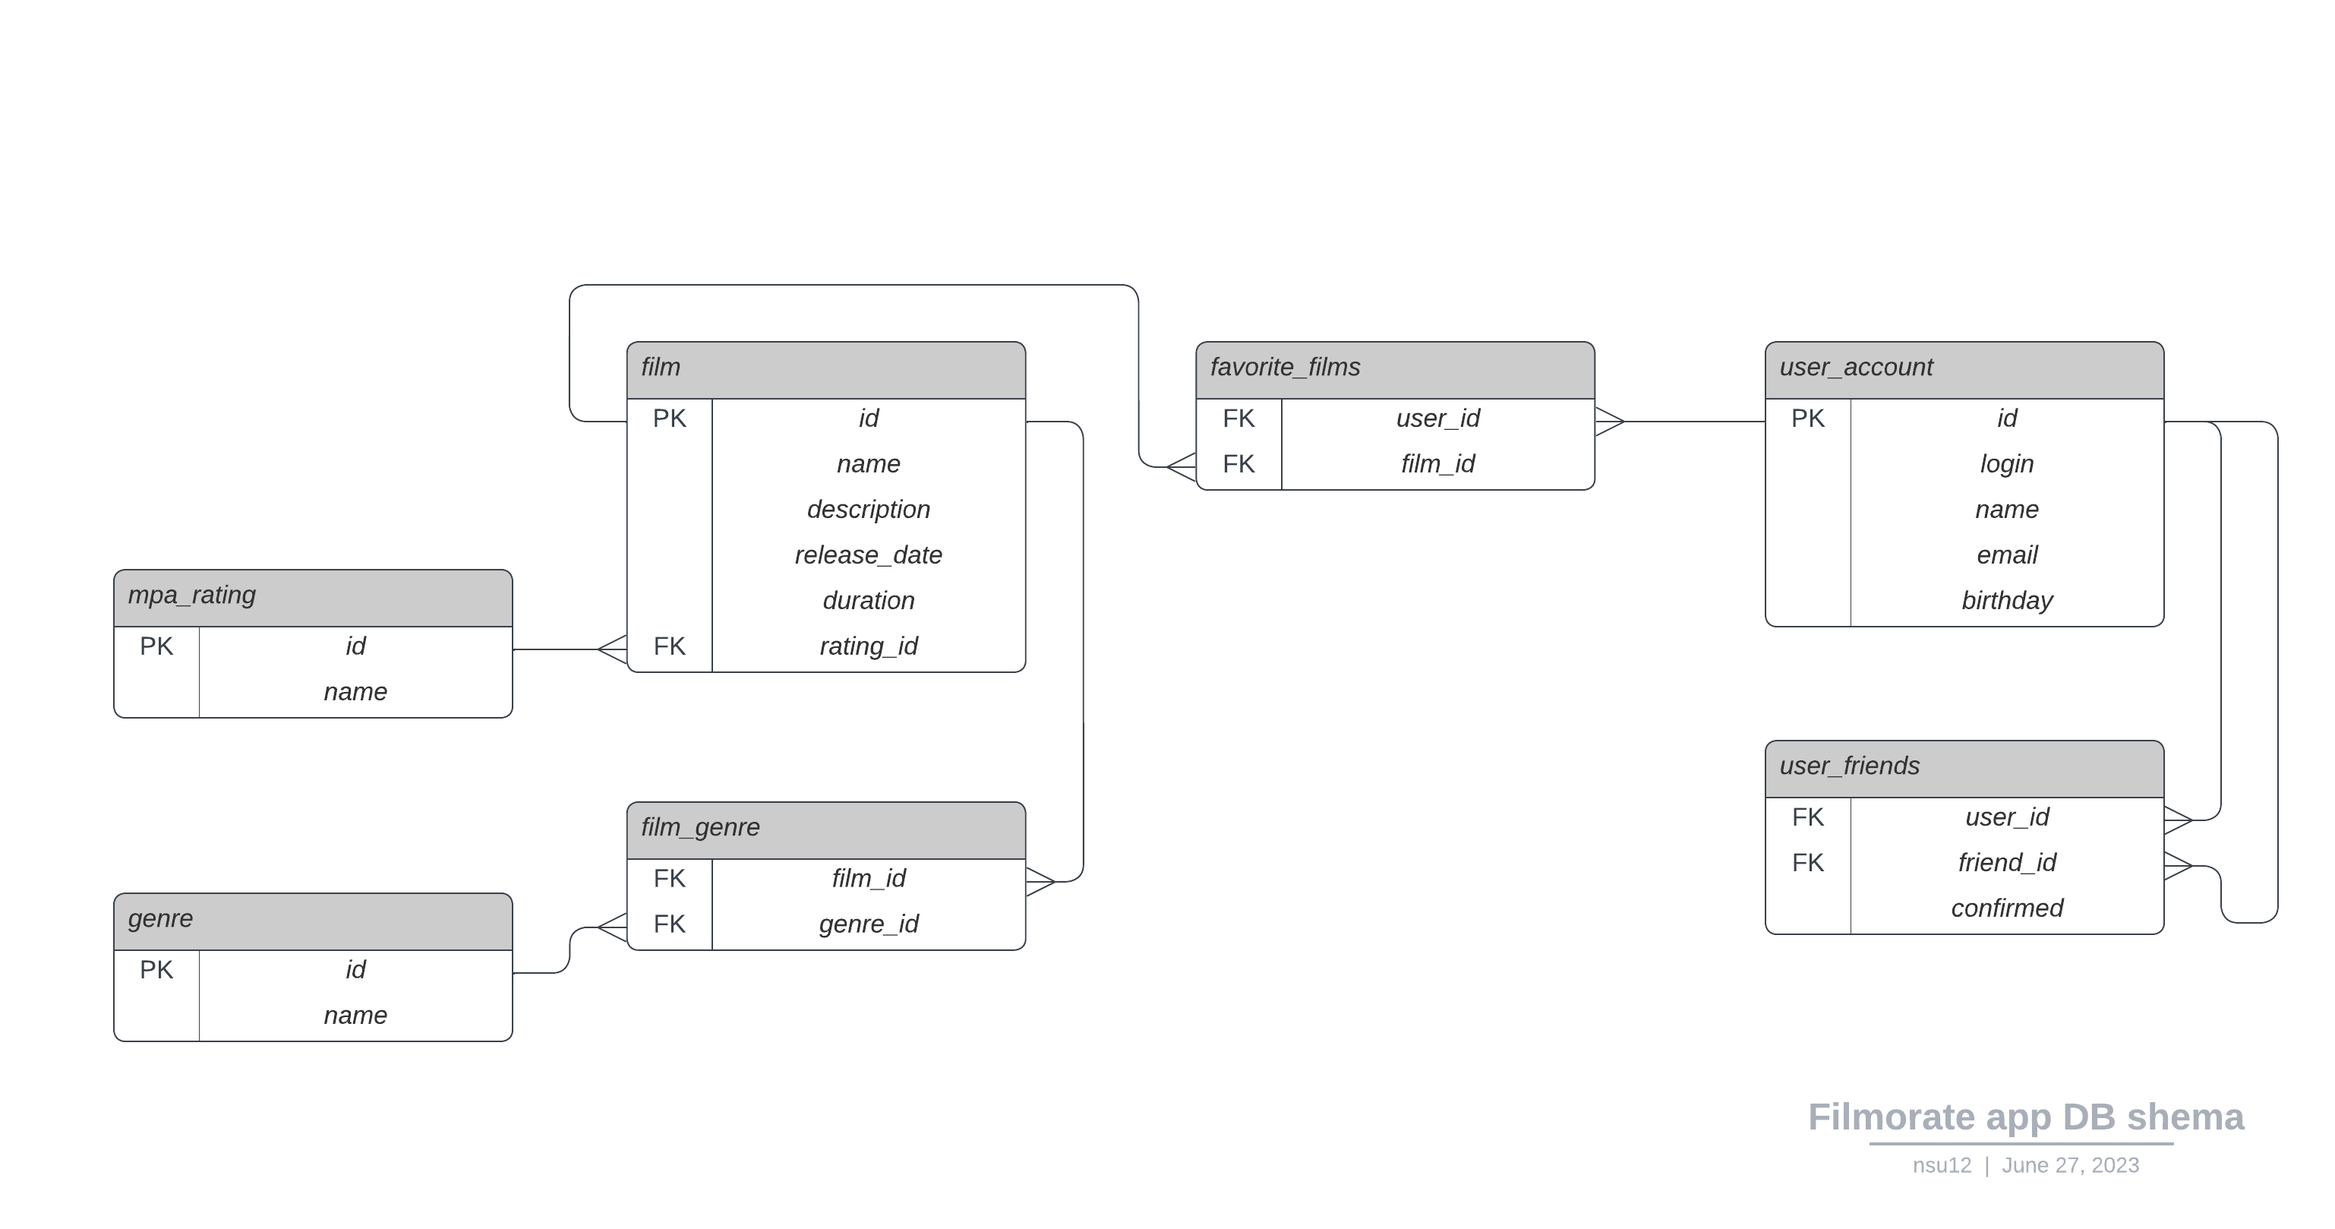
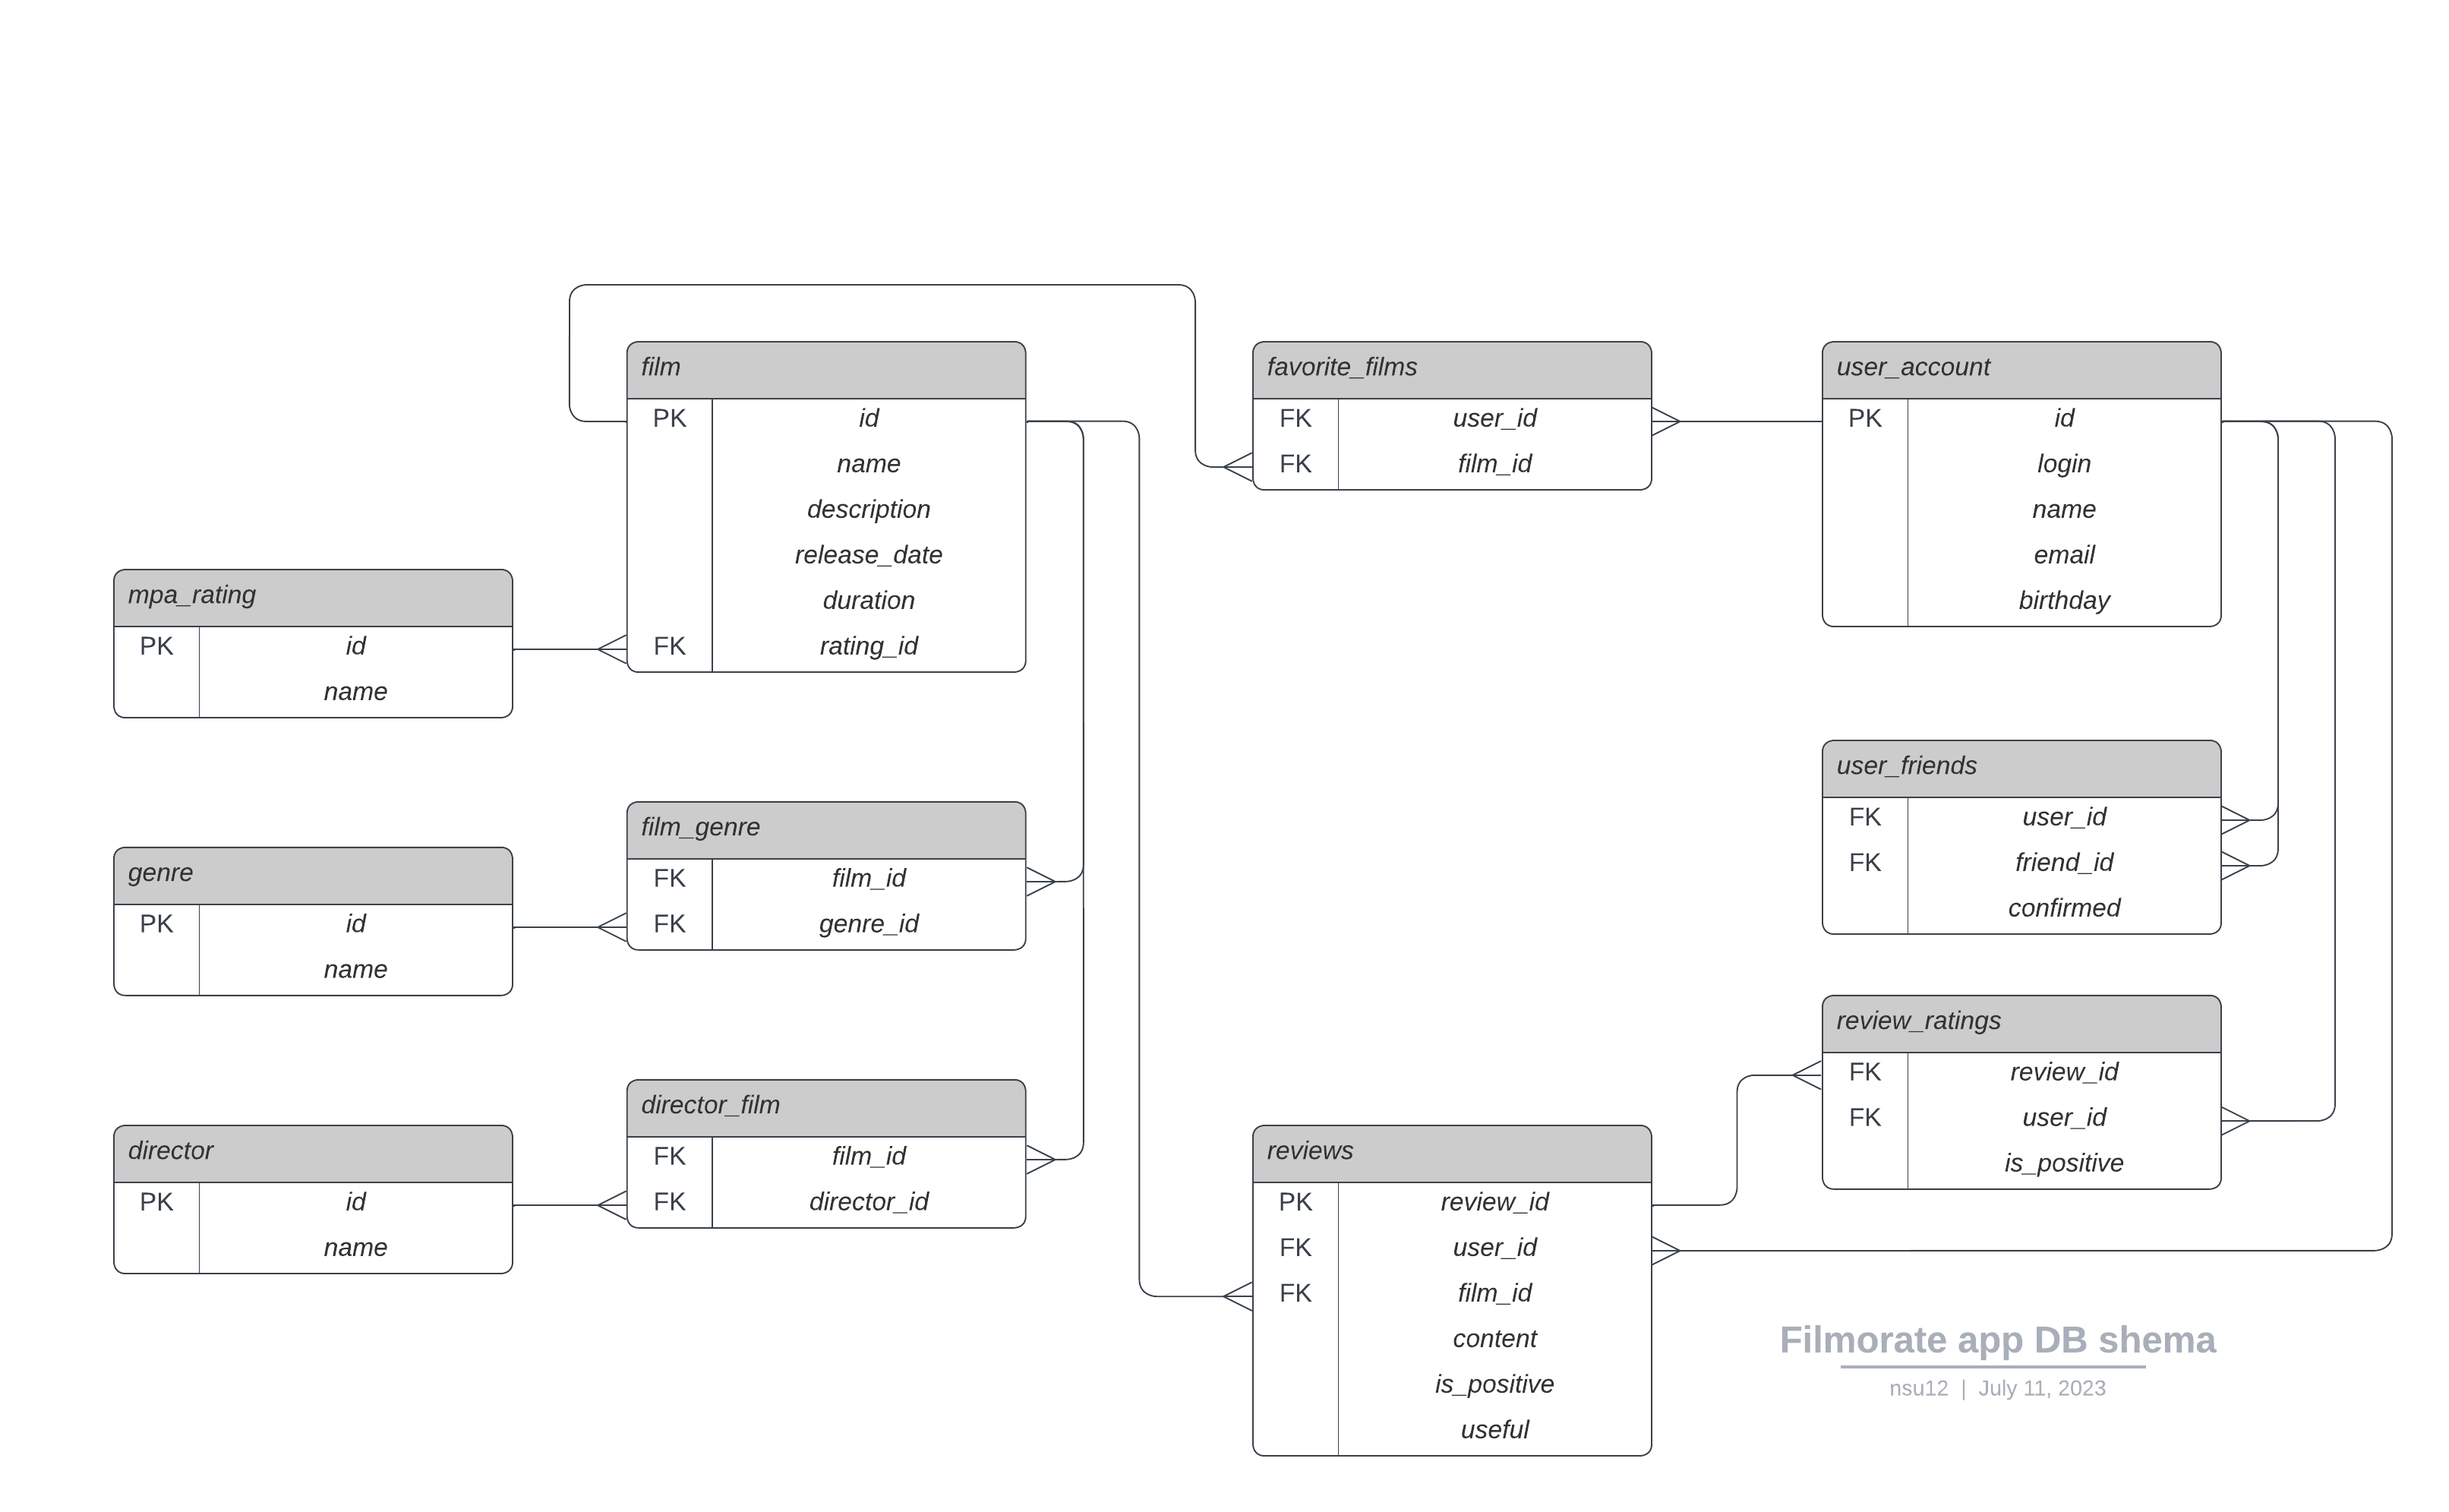
feat: правка графической схемы БД, ряд небольших правок общего стиля кода

diff --git a/src/main/java/ru/yandex/practicum/filmorate/storage/film/FilmStorageImpl.java b/src/main/java/ru/yandex/practicum/filmorate/storage/film/FilmStorageImpl.java
@@ -358,12 +358,12 @@ public class FilmStorageImpl implements FilmStorage {
     }
 
     @Override
-    public List<Film> searchFilms(Optional<String> query, List<String> by) {
+    public Collection<Film> searchFilms(String query, List<String> by) {
         List<Film> searchedFilms = new ArrayList<>();
-        if (query.get().isEmpty() || query.get().equals(" ")) {
+        if (query.isEmpty() || query.equals(" ")) {
             return searchedFilms;
         }
-        String stringInSql = "%" + query.get().toLowerCase() + "%";
+        String stringInSql = "%" + query.toLowerCase() + "%";
         if (by != null) {
             log.debug("Получен запрос с параметром by");
             if (by.size() == 1 & by.contains("title")) {
@@ -376,7 +376,7 @@ public class FilmStorageImpl implements FilmStorage {
             }
             if (by.size() == 2 & by.contains("title") & by.contains("director")) {
                 log.debug("Получен запрос на поиск фильма по имени режиссера и по названию фильма");
-                searchedFilms = jdbcTemplate.query(GET_SEARCH_FILMS_BY_ALL, (rs, rowNum) -> makeFilm(rs,rowNum), stringInSql, stringInSql);
+                searchedFilms = jdbcTemplate.query(GET_SEARCH_FILMS_BY_ALL, FilmStorageImpl::makeFilm, stringInSql, stringInSql);
                 log.debug("Результаты поиска:");
                 for (Film film : searchedFilms) {
                     log.debug("Фильм с film_id={}: {}", film.getId(), film);
@@ -391,7 +391,7 @@ public class FilmStorageImpl implements FilmStorage {
     }
 
     private List<Film> getSearchedFilms(String sql, String stringInSql) {
-        List<Film> searchedFilms = jdbcTemplate.query(sql, (rs, rowNum) -> makeFilm(rs,rowNum), stringInSql);
+        List<Film> searchedFilms = jdbcTemplate.query(sql, FilmStorageImpl::makeFilm, stringInSql);
         log.debug("Результаты поиска:");
         for (Film film : searchedFilms) {
             log.debug("Фильм с film_id={}: {}", film.getId(), film);

diff --git a/src/main/java/ru/yandex/practicum/filmorate/controller/DirectorController.java b/src/main/java/ru/yandex/practicum/filmorate/controller/DirectorController.java
@@ -10,7 +10,7 @@ import java.util.Collection;
 
 @Slf4j
 @RestController
-@RequestMapping
+@RequestMapping(value="/directors")
 public class DirectorController {
     private final DirectorService service;
 
@@ -18,27 +18,27 @@ public class DirectorController {
         this.service = service;
     }
 
-    @PostMapping(value = "/directors")
+    @PostMapping
     public Director create(@RequestBody @Valid Director director) {
         return service.create(director);
     }
 
-    @PutMapping(value = "/directors")
+    @PutMapping
     public Director update(@RequestBody @Valid Director director) {
         return service.update(director);
     }
 
-    @GetMapping(value = "/directors/{id}")
+    @GetMapping(value = "/{id}")
     public Director get(@PathVariable("id") Long id) {
         return service.get(id);
     }
 
-    @GetMapping(value = "/directors")
+    @GetMapping
     public Collection<Director> get() {
         return service.getAllDirectors();
     }
 
-    @DeleteMapping(value = "/directors/{id}")
+    @DeleteMapping(value = "/{id}")
     public void delete(@PathVariable("id") Long id) {
          service.delete(id);
     }

diff --git a/src/main/java/ru/yandex/practicum/filmorate/controller/FilmController.java b/src/main/java/ru/yandex/practicum/filmorate/controller/FilmController.java
@@ -7,7 +7,6 @@ import ru.yandex.practicum.filmorate.service.FilmService;
 
 import java.util.Collection;
 import java.util.List;
-import java.util.Optional;
 
 @Slf4j
 @RestController
@@ -80,9 +79,10 @@ public class FilmController {
     }
 
     @GetMapping(value = "/search")
-    protected Collection<Film> searchFilms(@RequestParam(name = "query") Optional<String> query,
-                                     @RequestParam(required = false, name = "by") List<String> by) {
-        log.info("Запрос на поиск фильмов...");
+    protected Collection<Film> searchFilms(
+            @RequestParam(name = "query") String query,
+            @RequestParam(name = "by") List<String> by) {
+        log.debug("Запрос на поиск фильмов...");
         return service.searchFilms(query, by);
     }
 }

diff --git a/src/main/java/ru/yandex/practicum/filmorate/service/FilmService.java b/src/main/java/ru/yandex/practicum/filmorate/service/FilmService.java
@@ -20,7 +20,6 @@ import javax.validation.ValidationException;
 import java.time.LocalDate;
 import java.util.Collection;
 import java.util.List;
-import java.util.Optional;
 import java.util.stream.Collectors;
 
 @Slf4j
@@ -162,8 +161,8 @@ public class FilmService {
         return films;
     }
 
-    public Collection<Film> searchFilms(Optional<String> query, List<String> by) {
-        List<Film> films = filmStorage.searchFilms(query,by);
+    public Collection<Film> searchFilms(String query, List<String> by) {
+        Collection<Film> films = filmStorage.searchFilms(query, by);
         films.forEach(film -> film.setGenres(filmGenreStorage.getFilmGenresOrThrow(film.getId())));
         films.forEach(film -> film.setDirectors(directorFilmStorage.getFilmDirectorsOrThrow(film.getId())));
         return films;

diff --git a/src/main/java/ru/yandex/practicum/filmorate/controller/ErrorHandler.java b/src/main/java/ru/yandex/practicum/filmorate/controller/ErrorHandler.java
@@ -25,6 +25,15 @@ public class ErrorHandler {
     }
 
     @ExceptionHandler
+    @ResponseStatus(HttpStatus.BAD_REQUEST)
+    public ErrorResponse handleIllegalArgumentException(final IllegalArgumentException e) {
+        log.error("Некорректные параметры запроса, {}", e.getMessage());
+        return new ErrorResponse(
+                e.getMessage()
+        );
+    }
+
+    @ExceptionHandler
     @ResponseStatus(HttpStatus.NOT_FOUND)
     public ErrorResponse handleEntryNotFoundException(final EntryNotFoundException e) {
         log.error(e.getMessage());

diff --git a/src/main/java/ru/yandex/practicum/filmorate/storage/film/FilmStorage.java b/src/main/java/ru/yandex/practicum/filmorate/storage/film/FilmStorage.java
@@ -4,7 +4,6 @@ import ru.yandex.practicum.filmorate.model.Film;
 
 import java.util.Collection;
 import java.util.List;
-import java.util.Optional;
 
 public interface FilmStorage {
 
@@ -49,7 +48,7 @@ public interface FilmStorage {
      */
     Collection<Film> getPopularFilms(int count);
 
-    List<Film> searchFilms(Optional<String> query, List<String> by);
+    Collection<Film> searchFilms(String query, List<String> by);
 
    /**
      * Возвращает список рекомендованных пользователем фильмов

diff --git a/src/main/java/ru/yandex/practicum/filmorate/model/Director.java b/src/main/java/ru/yandex/practicum/filmorate/model/Director.java
@@ -1,5 +1,6 @@
 package ru.yandex.practicum.filmorate.model;
 
+import lombok.AllArgsConstructor;
 import lombok.Data;
 import lombok.NoArgsConstructor;
 
@@ -7,14 +8,9 @@ import javax.validation.constraints.NotBlank;
 
 @Data
 @NoArgsConstructor
+@AllArgsConstructor
 public class Director {
     private Long id;
-
     @NotBlank
     private String name;
-
-    public Director(Long id, String name) {
-        this.id = id;
-        this.name = name;
-    }
 }

diff --git a/src/main/java/ru/yandex/practicum/filmorate/exception/ReviewValidationException.java b/src/main/java/ru/yandex/practicum/filmorate/exception/ReviewValidationException.java
@@ -3,9 +3,7 @@ package ru.yandex.practicum.filmorate.exception;
 import javax.validation.ValidationException;
 
 public class ReviewValidationException extends ValidationException {
-
     public ReviewValidationException(String message) {
         super(message);
     }
-
 }

diff --git a/README.md b/README.md
@@ -11,10 +11,18 @@ The Filmorate project.
 
 Таблица **film**  содержит список фильмов
 
-Таблица **film_genres** предназначена для связи фильмов и жанров, нужна чтобы преобразовать связь "многие-ко-многим" в пару связей "один-ко_многим", так как у одного фильма может быть несколько жанров
+Таблица **film_genres** предназначена для связи фильмов и жанров, нужна, чтобы преобразовать связь "многие-ко-многим" в пару связей "один-ко-многим", так как у одного фильма может быть несколько жанров
+
+Таблица **director** содержит список режиссеров
+
+Таблица **director_film** предназначена для связи фильмов и режиссеров, нужна, чтобы преобразовать связь "многие-ко-многим" в пару связей "один-ко-многим", так как у одного фильма может быть несколько режиссеров
 
 Таблица **user_account** содержит список пользователей
 
 Таблица **favorite_films** предназначена для связи лайков пользователей и фильмов. 
 
-Таблица **user_friends** нужна чтобы отобразить дружеские связи пользователей, сделана отдельной таблицей, поскольку у пользователя может быть несколько друзей и дружеские связи могут образовывать циклические графы, например у Ивана друзья Илья и Василий, у Ильи друзья Петр и Семён, у Петра друзья Иван и Елена, и Елена и Семён тоже друзья.  
+Таблица **user_friends** нужна, чтобы отобразить дружеские связи пользователей, сделана отдельной таблицей, поскольку у пользователя может быть несколько друзей и дружеские связи могут образовывать циклические графы, например у Ивана друзья Илья и Василий, у Ильи друзья Петр и Семён, у Петра друзья Иван и Елена, и Елена и Семён тоже друзья.  
+
+Таблица **reviews** содержит список отзывов пользователей
+
+Таблицы **review_ratings** предназначена для хранения оценок отзывов пользователей, преобразует связь "многие-ко-многим" в пару связей "один-ко-многим"
